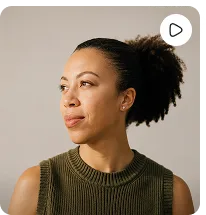
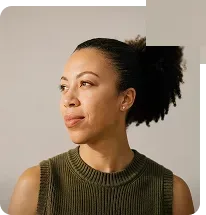
feat: testimonios section
Mosaico 6x3 medido en ref01 (unidad 200x209, gap 16, radio 16): 4 citas
(lavanda-300 con tinta morada, lavanda-100 y blanca con tinta ink, con
--q-max por tarjeta para clavar los cortes de línea), 3 fotos, tarjeta
ilustrada y tarjeta bocadillo (extraídas de ref01 a 1:1). Atribuciones
con chip blanco + icono de persona o avatar (Laura, extraído de ref01).
Citas: 30/40 y 24/30 verificados por bandas de tinta.

Sin botones de play (decidido en copy.md): badges ▶ eliminados de los
retratos por parcheo de píxeles (provisional hasta reexportar de Figma).
H2 definitivo "Personas que empezaron sin tenerlo claro" (sustituye al
placeholder del Figma). Reveal con stagger 80ms entre tarjetas (§5) y
transition-delay anulado en prefers-reduced-motion.

Changed region(s): [[0.699, 0.0558, 0.932, 0.307], [0.699, 0.0, 1.0, 0.307]]

diff --git a/css/styles.css b/css/styles.css
@@ -122,6 +122,7 @@ main > section[id] { scroll-margin-top: calc(var(--nav-h) + var(--space-3)); }
     animation-duration: 0.01ms !important;
     animation-iteration-count: 1 !important;
     transition-duration: 0.01ms !important;
+    transition-delay: 0s !important;
     scroll-behavior: auto !important;
   }
 }
@@ -386,6 +387,115 @@ main > section + section { padding-block-start: var(--space-section); }
   color: var(--chip-text-active);
 }
 .chip svg { flex: none; }
+
+/* ============================================
+   Testimonios — mosaico 6 col × 3 filas (medido en ref01:
+   unidad 200×209, gap 16, radio 16)
+   ============================================ */
+.testimonials {
+  display: grid;
+  grid-template-columns: repeat(6, 1fr);
+  grid-auto-rows: clamp(150px, 14.51vw, 209px); /* 209 @1440 */
+  gap: var(--space-2);
+  list-style: none;
+  padding: 0;
+  margin: 0;
+}
+.tcard {
+  position: relative;
+  overflow: hidden;
+  border-radius: var(--radius-faq);
+}
+/* colocación medida en ref01 */
+.tcard:nth-child(1) { grid-area: 1 / 1 / 3 / 3; }
+.tcard:nth-child(2) { grid-area: 1 / 3 / 2 / 4; }
+.tcard:nth-child(3) { grid-area: 1 / 4 / 2 / 5; }
+.tcard:nth-child(4) { grid-area: 1 / 5 / 2 / 7; }
+.tcard:nth-child(5) { grid-area: 2 / 3 / 4 / 5; }
+.tcard:nth-child(6) { grid-area: 2 / 5 / 4 / 6; }
+.tcard:nth-child(7) { grid-area: 2 / 6 / 3 / 7; }
+.tcard:nth-child(8) { grid-area: 3 / 1 / 4 / 3; }
+.tcard:nth-child(9) { grid-area: 3 / 6 / 4 / 7; }
+
+/* tarjetas de cita */
+.tcard--quote { padding: var(--space-2); }
+.tcard--quote figure,
+.tcard--quote blockquote { display: contents; } /* el flex lo gobierna la tarjeta */
+.tcard--quote { display: flex; flex-direction: column; }
+.tcard--pad-lg { padding-inline: var(--space-3); }
+.tcard--lav300 { background-color: var(--lavender-300); }
+.tcard--lav100 { background-color: var(--lavender-100); }
+.tcard--white { background-color: var(--bg-card); }
+
+.tcard__quote {
+  margin: 0;
+  max-width: var(--q-max, none); /* corte de línea por tarjeta, medido contra ref01 */
+  font-family: var(--font-heading);
+  font-weight: var(--weight-heading);
+  letter-spacing: -0.02em;
+  color: var(--ink);
+}
+.tcard--lav300 .tcard__quote { color: var(--purple-900); }
+.tcard__quote--lg { font-size: clamp(1.375rem, 2.08vw, 1.875rem); line-height: 1.3334; } /* 30/40 @1440 */
+.tcard__quote--sm { font-size: clamp(1.125rem, 1.67vw, 1.5rem); line-height: 1.25; }    /* 24/30 @1440 */
+
+.tcard__attr {
+  margin-block-start: auto;
+  display: flex;
+  align-items: center;
+  gap: 12px;
+  font-size: var(--text-small);
+  font-weight: var(--weight-ui);
+  color: var(--ink);
+}
+.tcard__badge {
+  display: inline-flex;
+  align-items: center;
+  justify-content: center;
+  width: 32px;
+  height: 32px;
+  flex: none;
+  background-color: var(--bg-card);
+  border-radius: 10px;
+  color: var(--ink);
+}
+.tcard__avatar {
+  width: 32px;
+  height: 32px;
+  flex: none;
+  border-radius: 50%;
+  object-fit: cover;
+}
+
+/* tarjetas de imagen (fotos e ilustraciones) */
+.tcard--img img {
+  width: 100%;
+  height: 100%;
+  object-fit: cover;
+  display: block;
+}
+
+/* stagger del reveal entre tarjetas hermanas (interacciones §5) */
+.testimonials .tcard:nth-child(2) { transition-delay: 80ms; }
+.testimonials .tcard:nth-child(3) { transition-delay: 160ms; }
+.testimonials .tcard:nth-child(4) { transition-delay: 240ms; }
+.testimonials .tcard:nth-child(5) { transition-delay: 320ms; }
+.testimonials .tcard:nth-child(6) { transition-delay: 400ms; }
+.testimonials .tcard:nth-child(7) { transition-delay: 480ms; }
+.testimonials .tcard:nth-child(8) { transition-delay: 560ms; }
+.testimonials .tcard:nth-child(9) { transition-delay: 640ms; }
+
+/* móvil: 2 columnas, alturas naturales */
+@media (max-width: 900px) {
+  .testimonials { grid-template-columns: repeat(2, 1fr); grid-auto-rows: auto; }
+  .tcard { grid-area: auto; }
+  .tcard:nth-child(1),
+  .tcard:nth-child(4),
+  .tcard:nth-child(5),
+  .tcard:nth-child(8) { grid-column: span 2; }
+  .tcard--img { aspect-ratio: 1 / 1; }
+  .tcard--quote { min-height: 200px; }
+}
 
 /* ============================================
    Reveal on scroll (interacciones §5) — solo con JS activo

diff --git a/index.html b/index.html
@@ -292,9 +292,96 @@
     </section>
 
     <!-- ================= TESTIMONIOS ================= -->
+    <!-- Mosaico 6×3 según ref01. DECIDIDO en copy.md: sin botones de play. -->
     <section id="testimonios" aria-labelledby="testimonios-title">
       <div class="container">
-        <h2 id="testimonios-title">Personas que empezaron sin tenerlo claro</h2>
+        <h2 id="testimonios-title" class="section__title reveal">Personas que empezaron sin tenerlo claro</h2>
+
+        <ul class="testimonials" role="list">
+          <li class="tcard tcard--quote tcard--lav300 tcard--pad-lg reveal">
+            <figure>
+              <blockquote>
+                <p class="tcard__quote tcard__quote--lg" style="--q-max: 10.85em">Me costaba poner en orden lo que sentía. Los artículos me ayudaron a aclararme antes de decidir cuál era el siguiente paso para mí.</p>
+              </blockquote>
+              <figcaption class="tcard__attr">
+                <span class="tcard__badge" aria-hidden="true">
+                  <svg viewBox="0 0 18 18" width="18" height="18" fill="none" stroke="currentColor" stroke-width="1.4" stroke-linecap="round" aria-hidden="true" focusable="false">
+                    <circle cx="9" cy="6.2" r="2.6"/>
+                    <path d="M4.6 14.6c.7-2.6 2.4-4 4.4-4s3.7 1.4 4.4 4"/>
+                  </svg>
+                </span>
+                Anónimo
+              </figcaption>
+            </figure>
+          </li>
+
+          <li class="tcard tcard--img reveal">
+            <img src="assets/img/testimonial-3.webp" alt="Retrato de usuario de Hilo" width="206" height="215" loading="lazy" decoding="async">
+          </li>
+
+          <li class="tcard tcard--img reveal">
+            <img src="assets/img/testimonial-bubble.webp" alt="" width="200" height="209" loading="lazy" decoding="async">
+          </li>
+
+          <li class="tcard tcard--quote tcard--lav100 reveal">
+            <figure>
+              <blockquote>
+                <!-- br: única forma de reproducir el corte del ref (la ventana de max-width es vacía con STIX) -->
+                <p class="tcard__quote tcard__quote--sm">No me sentí juzgada ni presionada. Pude ir a mi ritmo desde el <br>principio.</p>
+              </blockquote>
+              <figcaption class="tcard__attr">
+                <span class="tcard__badge" aria-hidden="true">
+                  <svg viewBox="0 0 18 18" width="18" height="18" fill="none" stroke="currentColor" stroke-width="1.4" stroke-linecap="round" aria-hidden="true" focusable="false">
+                    <circle cx="9" cy="6.2" r="2.6"/>
+                    <path d="M4.6 14.6c.7-2.6 2.4-4 4.4-4s3.7 1.4 4.4 4"/>
+                  </svg>
+                </span>
+                Anónimo
+              </figcaption>
+            </figure>
+          </li>
+
+          <li class="tcard tcard--quote tcard--white reveal">
+            <figure>
+              <blockquote>
+                <p class="tcard__quote tcard__quote--lg" style="--q-max: 11.5em">Me gustó poder conocer distintos perfiles sin sentir que tenía que decidir nada en ese momento.</p>
+              </blockquote>
+              <figcaption class="tcard__attr">
+                <img class="tcard__avatar" src="assets/img/avatar-laura.webp" alt="" width="32" height="32" loading="lazy" decoding="async">
+                Laura
+              </figcaption>
+            </figure>
+          </li>
+
+          <li class="tcard tcard--img reveal">
+            <img src="assets/img/testimonial-1.webp" alt="Retrato de usuaria de Hilo" width="206" height="440" loading="lazy" decoding="async">
+          </li>
+
+          <li class="tcard tcard--quote tcard--lav300 reveal">
+            <figure>
+              <blockquote>
+                <p class="tcard__quote tcard__quote--sm">Claridad, sin presión.</p>
+              </blockquote>
+              <figcaption class="tcard__attr">
+                <span class="tcard__badge" aria-hidden="true">
+                  <svg viewBox="0 0 18 18" width="18" height="18" fill="none" stroke="currentColor" stroke-width="1.4" stroke-linecap="round" aria-hidden="true" focusable="false">
+                    <circle cx="9" cy="6.2" r="2.6"/>
+                    <path d="M4.6 14.6c.7-2.6 2.4-4 4.4-4s3.7 1.4 4.4 4"/>
+                  </svg>
+                </span>
+                Guillermo
+              </figcaption>
+            </figure>
+          </li>
+
+          <li class="tcard tcard--img reveal">
+            <img src="assets/img/testimonial-illustration.webp" alt="" width="416" height="209" loading="lazy" decoding="async">
+          </li>
+
+          <li class="tcard tcard--img reveal">
+            <img src="assets/img/testimonial-2.webp" alt="Retrato de usuaria de Hilo" width="206" height="215" loading="lazy" decoding="async">
+          </li>
+        </ul>
       </div>
     </section>
 